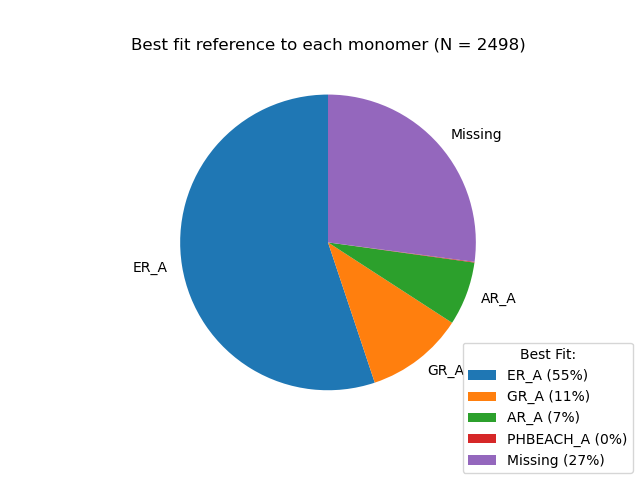
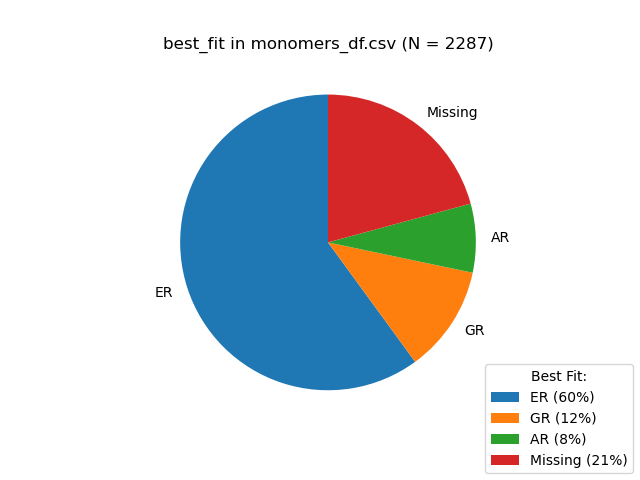
Standardised piechart generation Commented main.py

diff --git a/scripts/visualisation.py b/scripts/visualisation.py
@@ -5,56 +5,55 @@ import pandas as pd
 import matplotlib.pyplot as plt
 
 
-def generate_charts():
-    root["charts"] = "charts"
-    sprint("Generating charts")
-    if "monomers_df.csv" in os.listdir(root.dataframes):
-        data = pd.read_csv(os.path.join(root.dataframes,"monomers_df.csv"))
-        if len(data) > 0:
 
-            labels = list(data["best_fit"].unique())
+
+def generate_piechart(df_name:str, column, extra_data:dict[str, int] = None):
+    if df_name in os.listdir(root.dataframes):
+        data = pd.read_csv(os.path.join(root.dataframes, df_name))
+        if len(data) > 0:
+            labels = list(data[column].unique())
             sizes = []
             large_labels = []
             for label in labels:
-                sizes.append(len(data[data["best_fit"] == label]))
-            print(sizes)
-            labels += ["Missing"]
-            failed_df = pd.read_csv(os.path.join(root.dataframes,"failed_df.csv"))
-            sizes.append(len(failed_df[failed_df["stage"] == "monomer"]))
+                sizes.append(len(data[data[column] == label]))
+            if extra_data is not None:
+                for key, value in extra_data.items():
+                    labels += [key]
+                    sizes += [value]
 
-            print(sizes)
             total = sum(sizes)
             for index, (label, size) in enumerate(zip(labels, sizes)):
-                labels[index] = "{} ({}%)".format(label, round(size/total*100))
-                if round(size/total*100) >= 3:
+                labels[index] = "{} ({}%)".format(label, round(size / total * 100))
+                if round(size / total * 100) >= 3:
                     large_labels.append(label)
                 else:
                     large_labels.append("")
-            print(labels)
-            print(sizes)
             fig, ax = plt.subplots()
             ax.pie(sizes, labels=large_labels, startangle=90)
-            ax.set_title("Best fit reference to each monomer (N = {})".format(total))
-            fig.legend(title = "Best Fit:", labels = labels, loc = "lower right")
-            fig.savefig(os.path.join(root.charts,"monomers_df.png"))
-            print1("monomers_df.png generated")
+            ax.set_title("{} in {} (N = {})".format(column, df_name, total))
+            fig.legend(title="Best Fit:", labels=labels, loc="lower right")
+            fig_name = "{}.png".format(df_name.split(".")[0])
+            fig_path = os.path.join(root.charts, fig_name)
+            fig.savefig(fig_path)
+            print1("{} generated".format(fig_name))
 
 
 
 
 
+def generate_charts():
+    root["charts"] = "charts"
+    sprint("Generating charts")
 
-    if "failed_df.csv" in os.listdir(root.dataframes):
-        data = pd.read_csv(os.path.join(root.dataframes,"failed_df.csv"))
-        if len(data) > 0:
-            labels = data["error"].unique()
-            sizes = []
-            for label in labels:
-                sizes.append(len(data[data["error"] == label]))
 
-            fig, ax = plt.subplots()
-            ax.pie(sizes, labels=labels)
-            fig.savefig(os.path.join(root.charts,"failed_df.png"))
+    # Successful monomers piechart:
+    failed_df = pd.read_csv(os.path.join(root.dataframes, "failed_df.csv"))
+    extra_data ={"Missing": (len(failed_df[failed_df["stage"] == "monomer"]))}
+    generate_piechart("monomers_df.csv", "best_fit", extra_data)
+
+    # Errors piechart:
+    generate_piechart("failed_df.csv", "error")
+
 
 if __name__ == "__main__":
     import globals

diff --git a/scripts/main.py b/scripts/main.py
@@ -1,8 +1,12 @@
+# Project_B by Iain Visa @ IBMB-CSIC / UB
+
+# Essential imports
 import os
-
-from utilities import *
 import pandas as pd
+from utilities import *
 
+
+# Initialise globals
 import globals
 globals.set_root("../")
 if os.name == "nt":
@@ -10,23 +14,32 @@ if os.name == "nt":
 elif os.name == "posix":
     globals.set_local("/localdata/iain/_local/projectB")
 
+
 # Imports that need globals initialised:
 from globals import root, local, vars
 from dataframes import save_dfs, create_dfs
+from imports import pickle, export
 
 
-
-PROCESS_ALL = True
+# Some essential variables
+PROCESS_ALL = True # Ignore saved pickles and generate everything from scratch
 LARGE_DATASET = True # Delete all saved data previously to avoid errors
 DO_ONLY = "" # Names of pdbs to be processed (CAPS sensitive, separated by space) e.g "5N10 1M2Z"
 
+
+# Set up
 vars["do_only"] = DO_ONLY
 
-from imports import *
+
+# Download large dataset
+tprint("Downloading large data")
+from imports import download_pdbs
 if "many_pdbs" not in local.list() and LARGE_DATASET:
     download_pdbs(os.path.join(root.pdb_lists,"list_1500v2"), "many_pdbs")
+eprint("Large data downloaded")
 
 
+# Load/Import molecule files
 tprint("Loading files")
 from imports import load_from_files
 from molecules import Reference, PDB
@@ -43,17 +56,23 @@ pickle(molecules)
 eprint("Files loaded")
 
 
+# Create dataframes
 sprint("Creating dataframes")
 create_dfs(references)
+for df in os.listdir(root.dataframes):
+    print1(df)
 print1("Dataframes created")
 
 
+# Load/Generate monomer files
 tprint("Loading monomers")
 from imports import load_monomers
 monomers = load_monomers(molecules = molecules, force_reload=PROCESS_ALL)
 pickle(monomers)
 eprint("Monomers loaded")
 
+
+# Align references to monomers
 tprint("Aligning monomers")
 progress = ProgressBar(len(monomers))
 for monomer in monomers:
@@ -64,7 +83,7 @@ save_dfs()
 eprint("Monomers aligned")
 
 
-
+# Superpose references to monomers
 tprint("Superposing monomers")
 progress = ProgressBar(len(monomers))
 for monomer in monomers:
@@ -75,10 +94,23 @@ save_dfs()
 eprint("Monomers superposed")
 
 
+# Load/Generate dimer files
 tprint("Loading dimers")
 from imports import load_dimers
-dimers = load_dimers(molecules = molecules, force_reload=True)
+dimers = load_dimers(molecules = molecules, force_reload=PROCESS_ALL)
+pickle(dimers)
 eprint("Dimers loaded")
+
+
+# Processing dimers
+tprint("Processing dimers")
+progress = ProgressBar(len(dimers))
+for dimer in dimers:
+    dimer
+    progress.add()
+pickle(dimers)
+save_dfs()
+eprint("Dimers processed")
 
 
 
@@ -86,13 +118,15 @@ eprint("Dimers loaded")
 
 
 # Save and exit
-save_dfs()
-
 tprint("Saving data")
-all_files = references + molecules + monomers + dimers
+save_dfs() # Save dataframes and generate figures
+
+all_files = references + molecules + monomers + dimers # select all loaded files
 progress = ProgressBar(len(all_files))
 for file in all_files:
-    file.pickle()
-    file.export()
+    file.pickle() # Save the object
+    file.export() # Save the pdb
     progress.add()
 eprint("Finished")
+
+# Done xd

diff --git a/scripts/molecules.py b/scripts/molecules.py
@@ -206,8 +206,8 @@ class Monomer(BioObject):
             self.super_path = data["out_path"]
         else:
             self.super_path = ""
-            vars.failed_df.loc[len(vars.failed_df)] = [self.id, "monomer", "no reference meets coverage (80%)", coverages]
-            self.failed_entries.append([self.id, "monomer", "no reference meets coverage (80%)", coverages])
+            vars.failed_df.loc[len(vars.failed_df)] = [self.id, "monomer", "no coverage", "no reference meets coverage (80%)" + str(coverages)]
+            self.failed_entries.append([self.id, "monomer", "no coverage", "no reference meets coverage (80%)" + str(coverages)])
 
 
 
